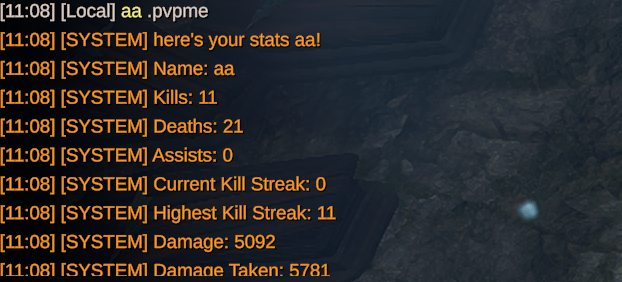
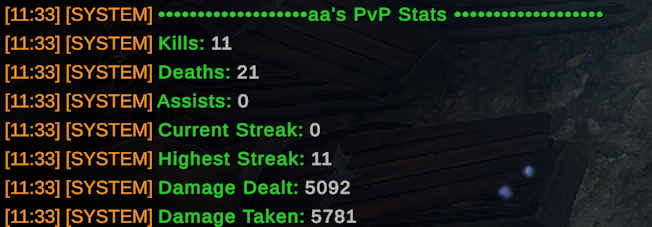
make pvpme pretty

diff --git a/Commands.cs b/Commands.cs
@@ -62,26 +62,34 @@ public class Commands
         }
     }
 
-    [Command("pvpme", description: "prints the players stats")]
+    [Command("pvpme", description: "prints the player's stats")]
     public void PvPMe(ChatCommandContext ctx)
     {
-        ctx.Reply($"here's your stats {ctx.Name}!");
-        if (PlayerStatStore.PlayerStats.TryGetValue(ctx.User.PlatformId, out PlayerStats playerStats))
+        if (!PlayerStatStore.PlayerStats.TryGetValue(ctx.User.PlatformId, out var s))
         {
-            ctx.Reply($"Name: {playerStats.Name}");
-            ctx.Reply($"Kills: {playerStats.Kills}");
-            ctx.Reply($"Deaths: {playerStats.GetTotalDeaths()}");
-            ctx.Reply($"Assists: {playerStats.Assists}");
-            ctx.Reply($"Current Kill Streak: {playerStats.CurrentKillStreak}");
-            ctx.Reply($"Highest Kill Streak: {playerStats.HighestKillStreak}");
-            ctx.Reply($"Damage: {playerStats.Damage}");
-            ctx.Reply($"Damage Taken: {playerStats.DamageTaken}");
-        }
-        else
-        {
-            ctx.Reply("oh no! you don't exists silly!");
+            ctx.Reply("Oh no! You don't exist, silly!");
+            return;
         }
 
+        static string Label(string text) => text.Color(ChatAnnouncements.assistColor).Bold();
+        static string Value(int number) => number.ToString().Color(ChatAnnouncements.lvlColor).Bold();
+
+        string[] lines =
+        {
+        $"•••••••••••••••••••{ctx.Name}'s PvP Stats •••••••••••••••••••".Bold().Color(ChatAnnouncements.assistColor),
+        $"{Label("Kills:")} {Value(s.Kills)}",
+        $"{Label("Deaths:")} {Value(s.Deaths)}",
+        $"{Label("Assists:")} {Value(s.Assists)}",
+        $"{Label("Current Streak:")} {Value(s.CurrentKillStreak)}",
+        $"{Label("Highest Streak:")} {Value(s.HighestKillStreak)}",
+        $"{Label("Damage Dealt:")} {Value(s.Damage)}",
+        $"{Label("Damage Taken:")} {Value(s.DamageTaken)}"
+        };
+
+        foreach (var line in lines)
+        {
+            ctx.Reply(line);
+        }
     }
 
     //DEBUG COMMANDS:::===================================================================== 
